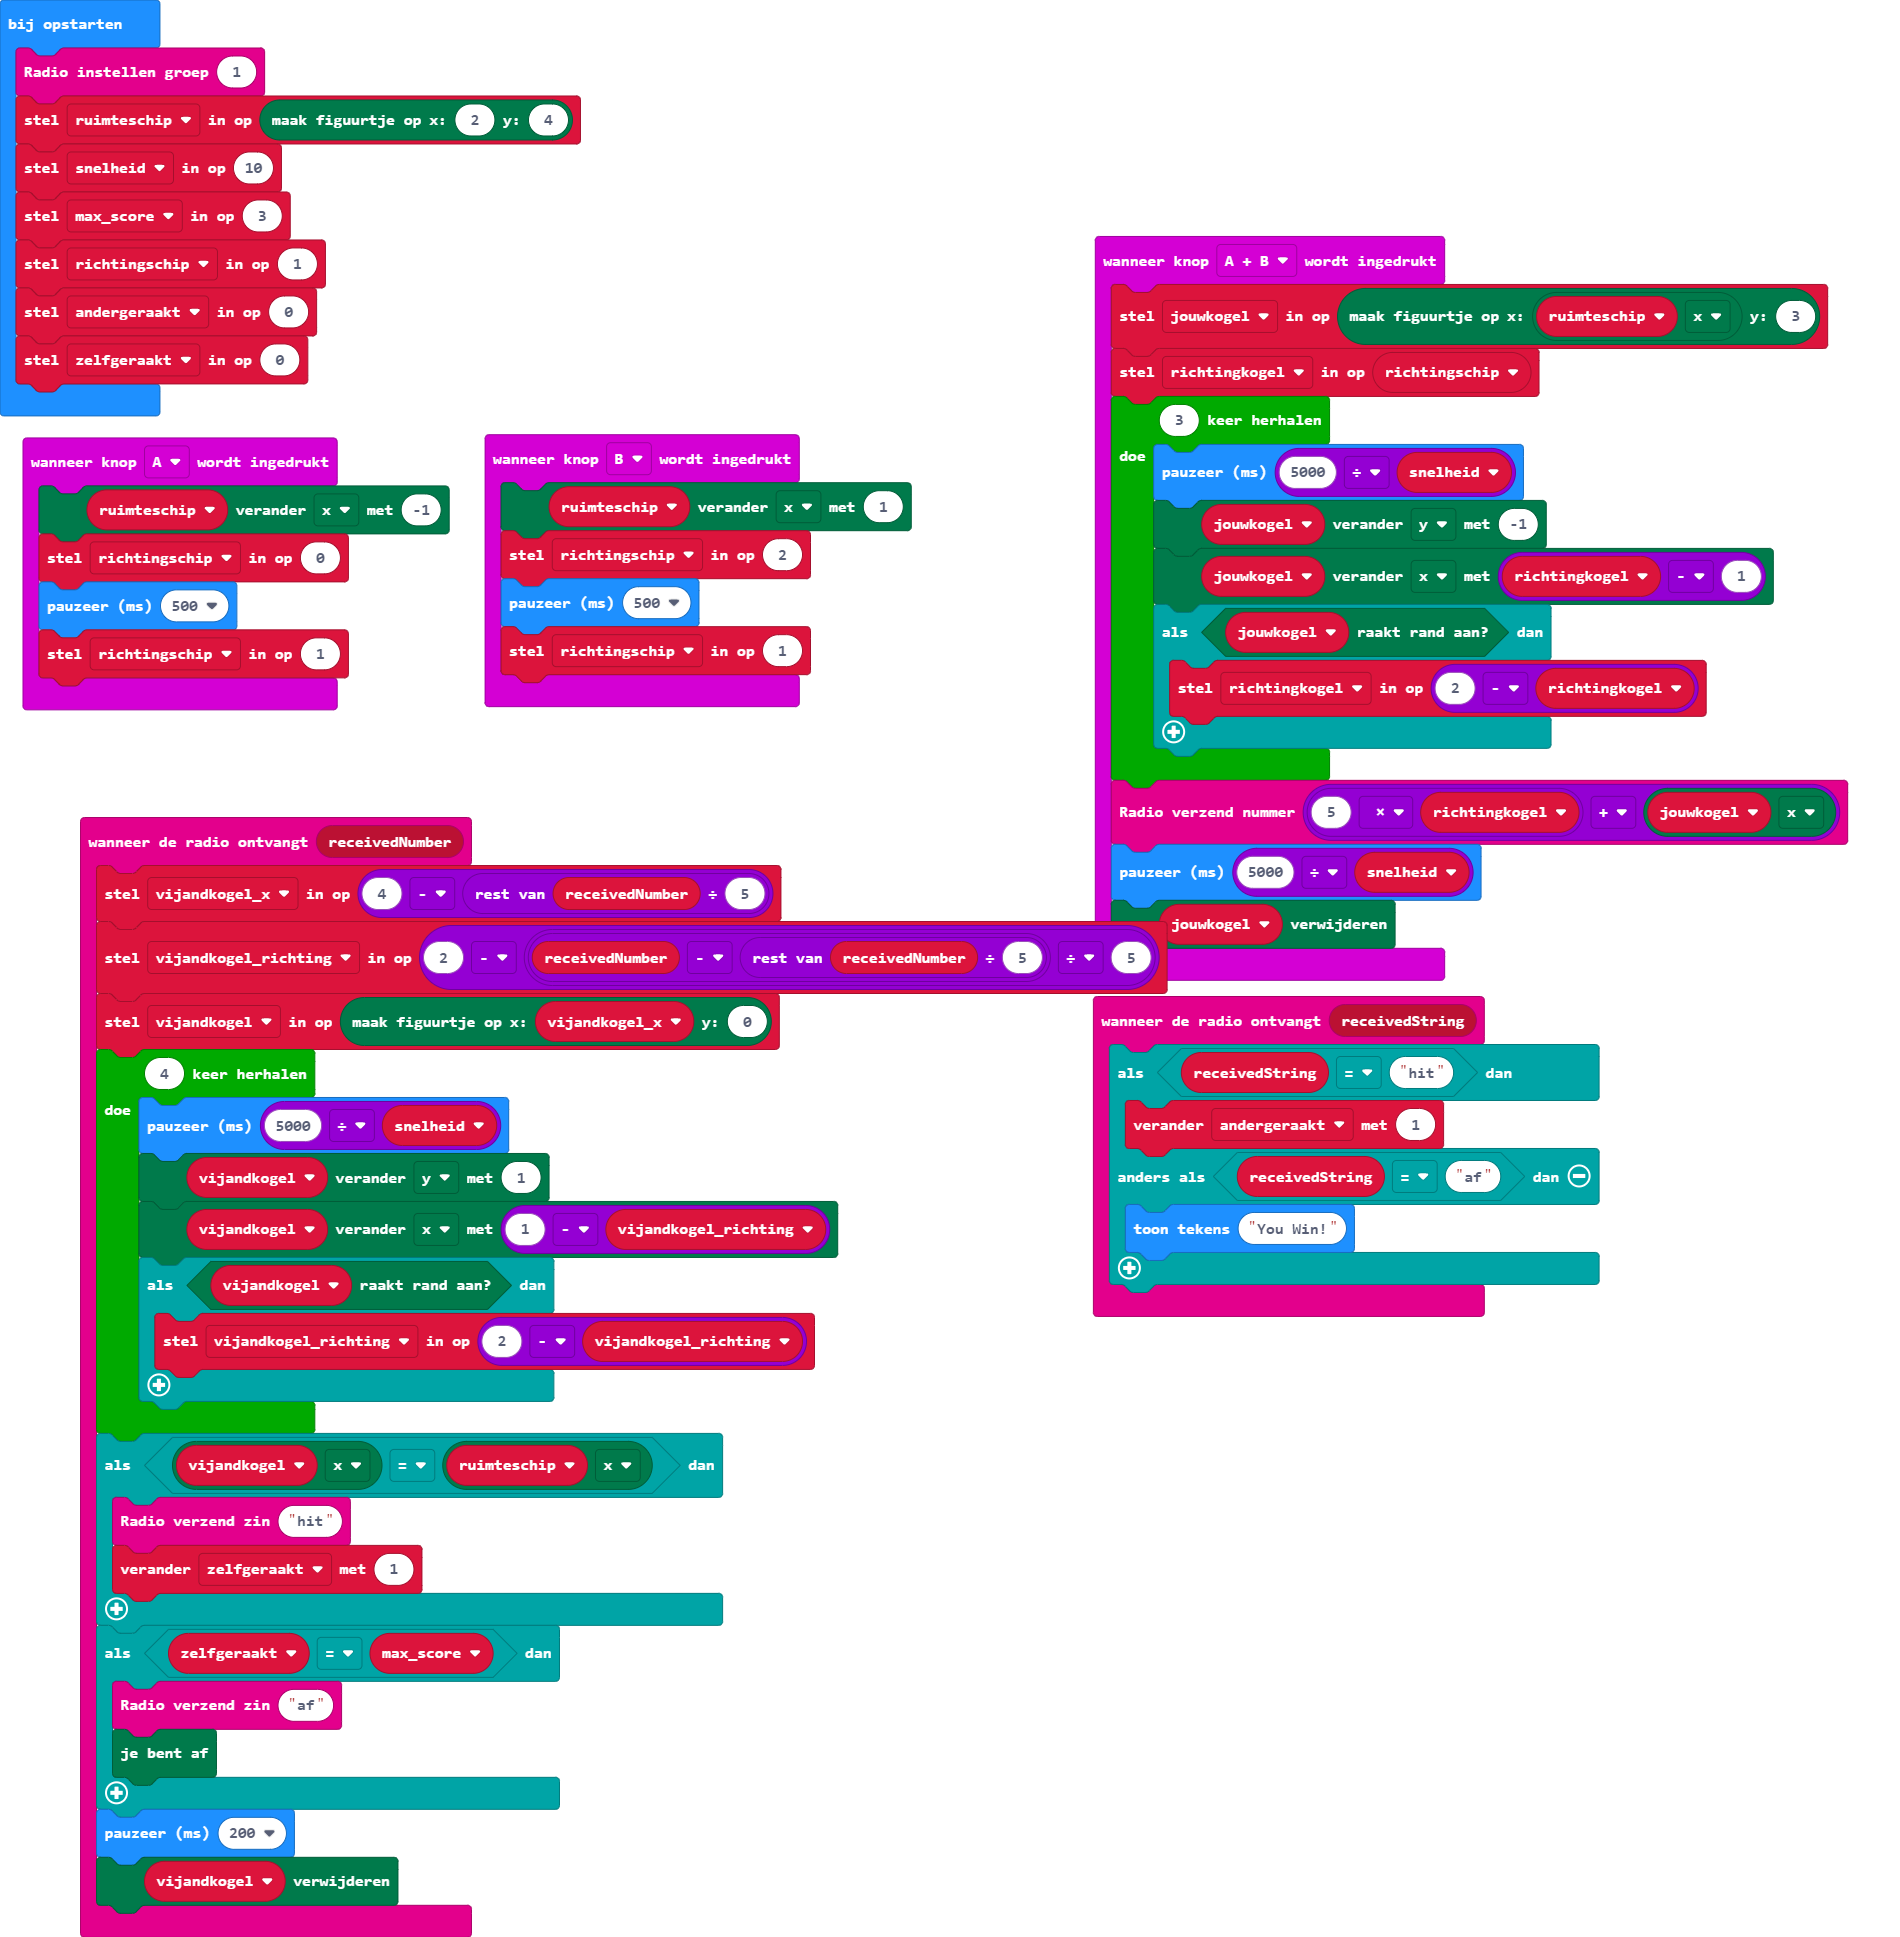
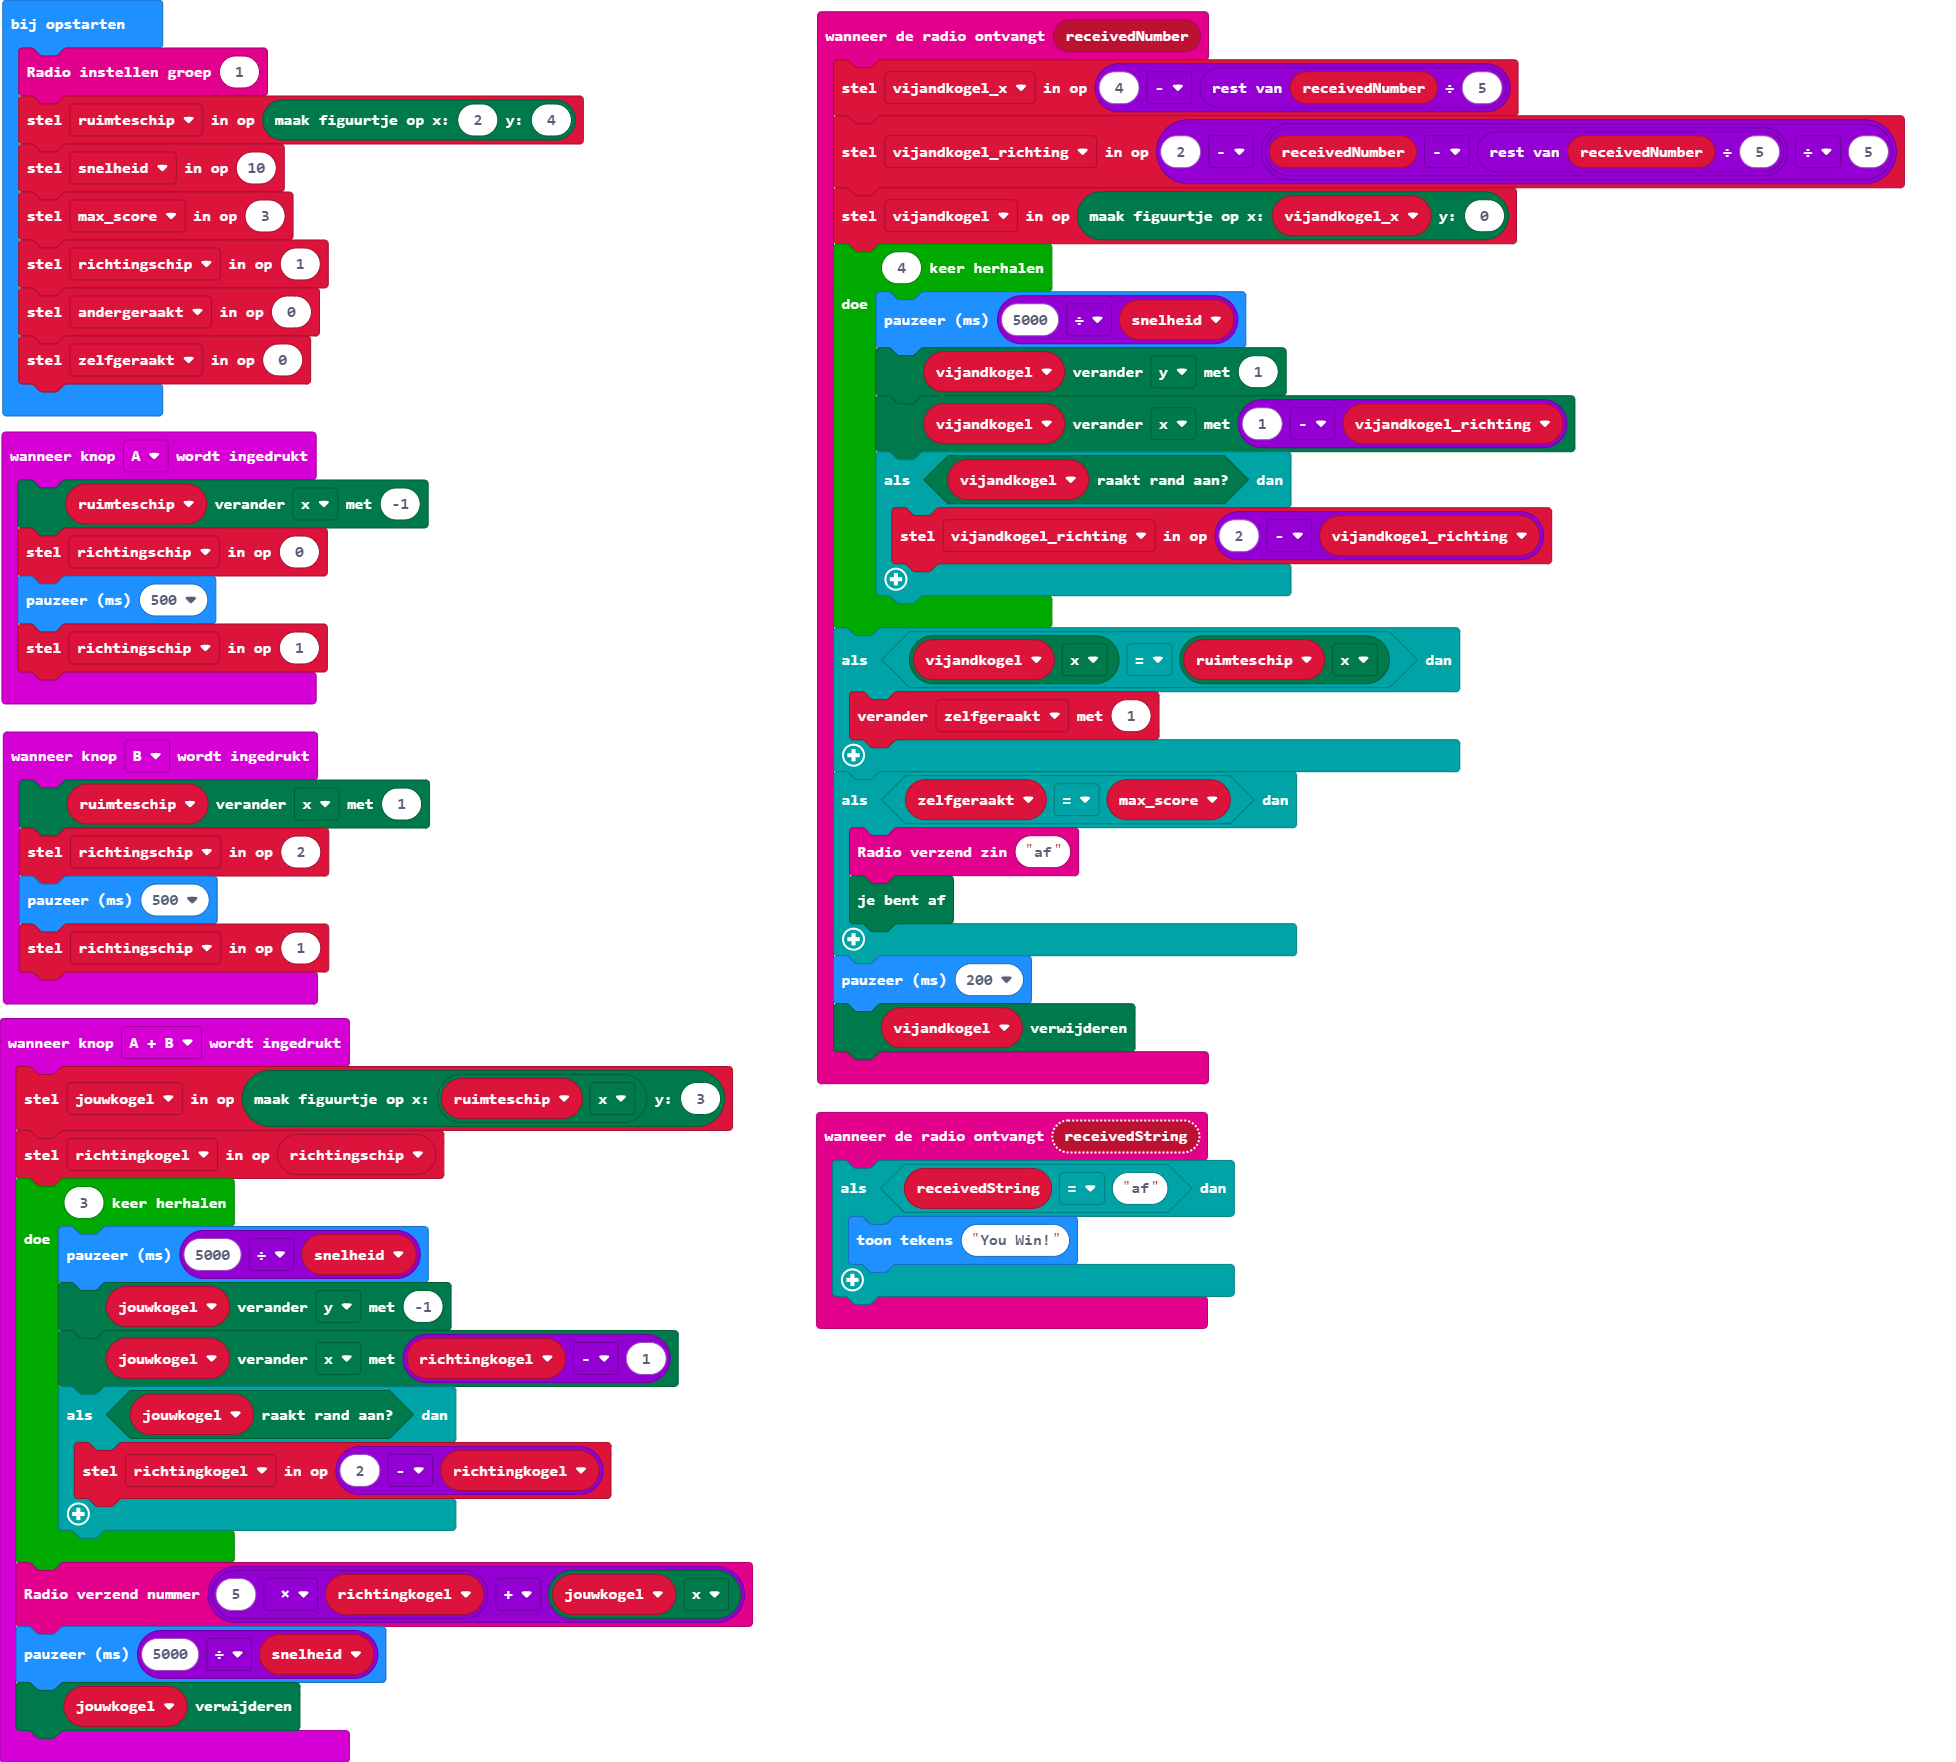
Update main.blocks, main.ts

diff --git a/main.ts b/main.ts
@@ -11,7 +11,6 @@ radio.onReceivedNumber(function (receivedNumber) {
         }
     }
     if (vijandkogel.get(LedSpriteProperty.X) == ruimteschip.get(LedSpriteProperty.X)) {
-        radio.sendString("hit")
         zelfgeraakt += 1
     }
     if (zelfgeraakt == max_score) {
@@ -43,9 +42,7 @@ input.onButtonPressed(Button.AB, function () {
     jouwkogel.delete()
 })
 radio.onReceivedString(function (receivedString) {
-    if (receivedString == "hit") {
-        andergeraakt += 1
-    } else if (receivedString == "af") {
+    if (receivedString == "af") {
         basic.showString("You Win!")
     }
 })
